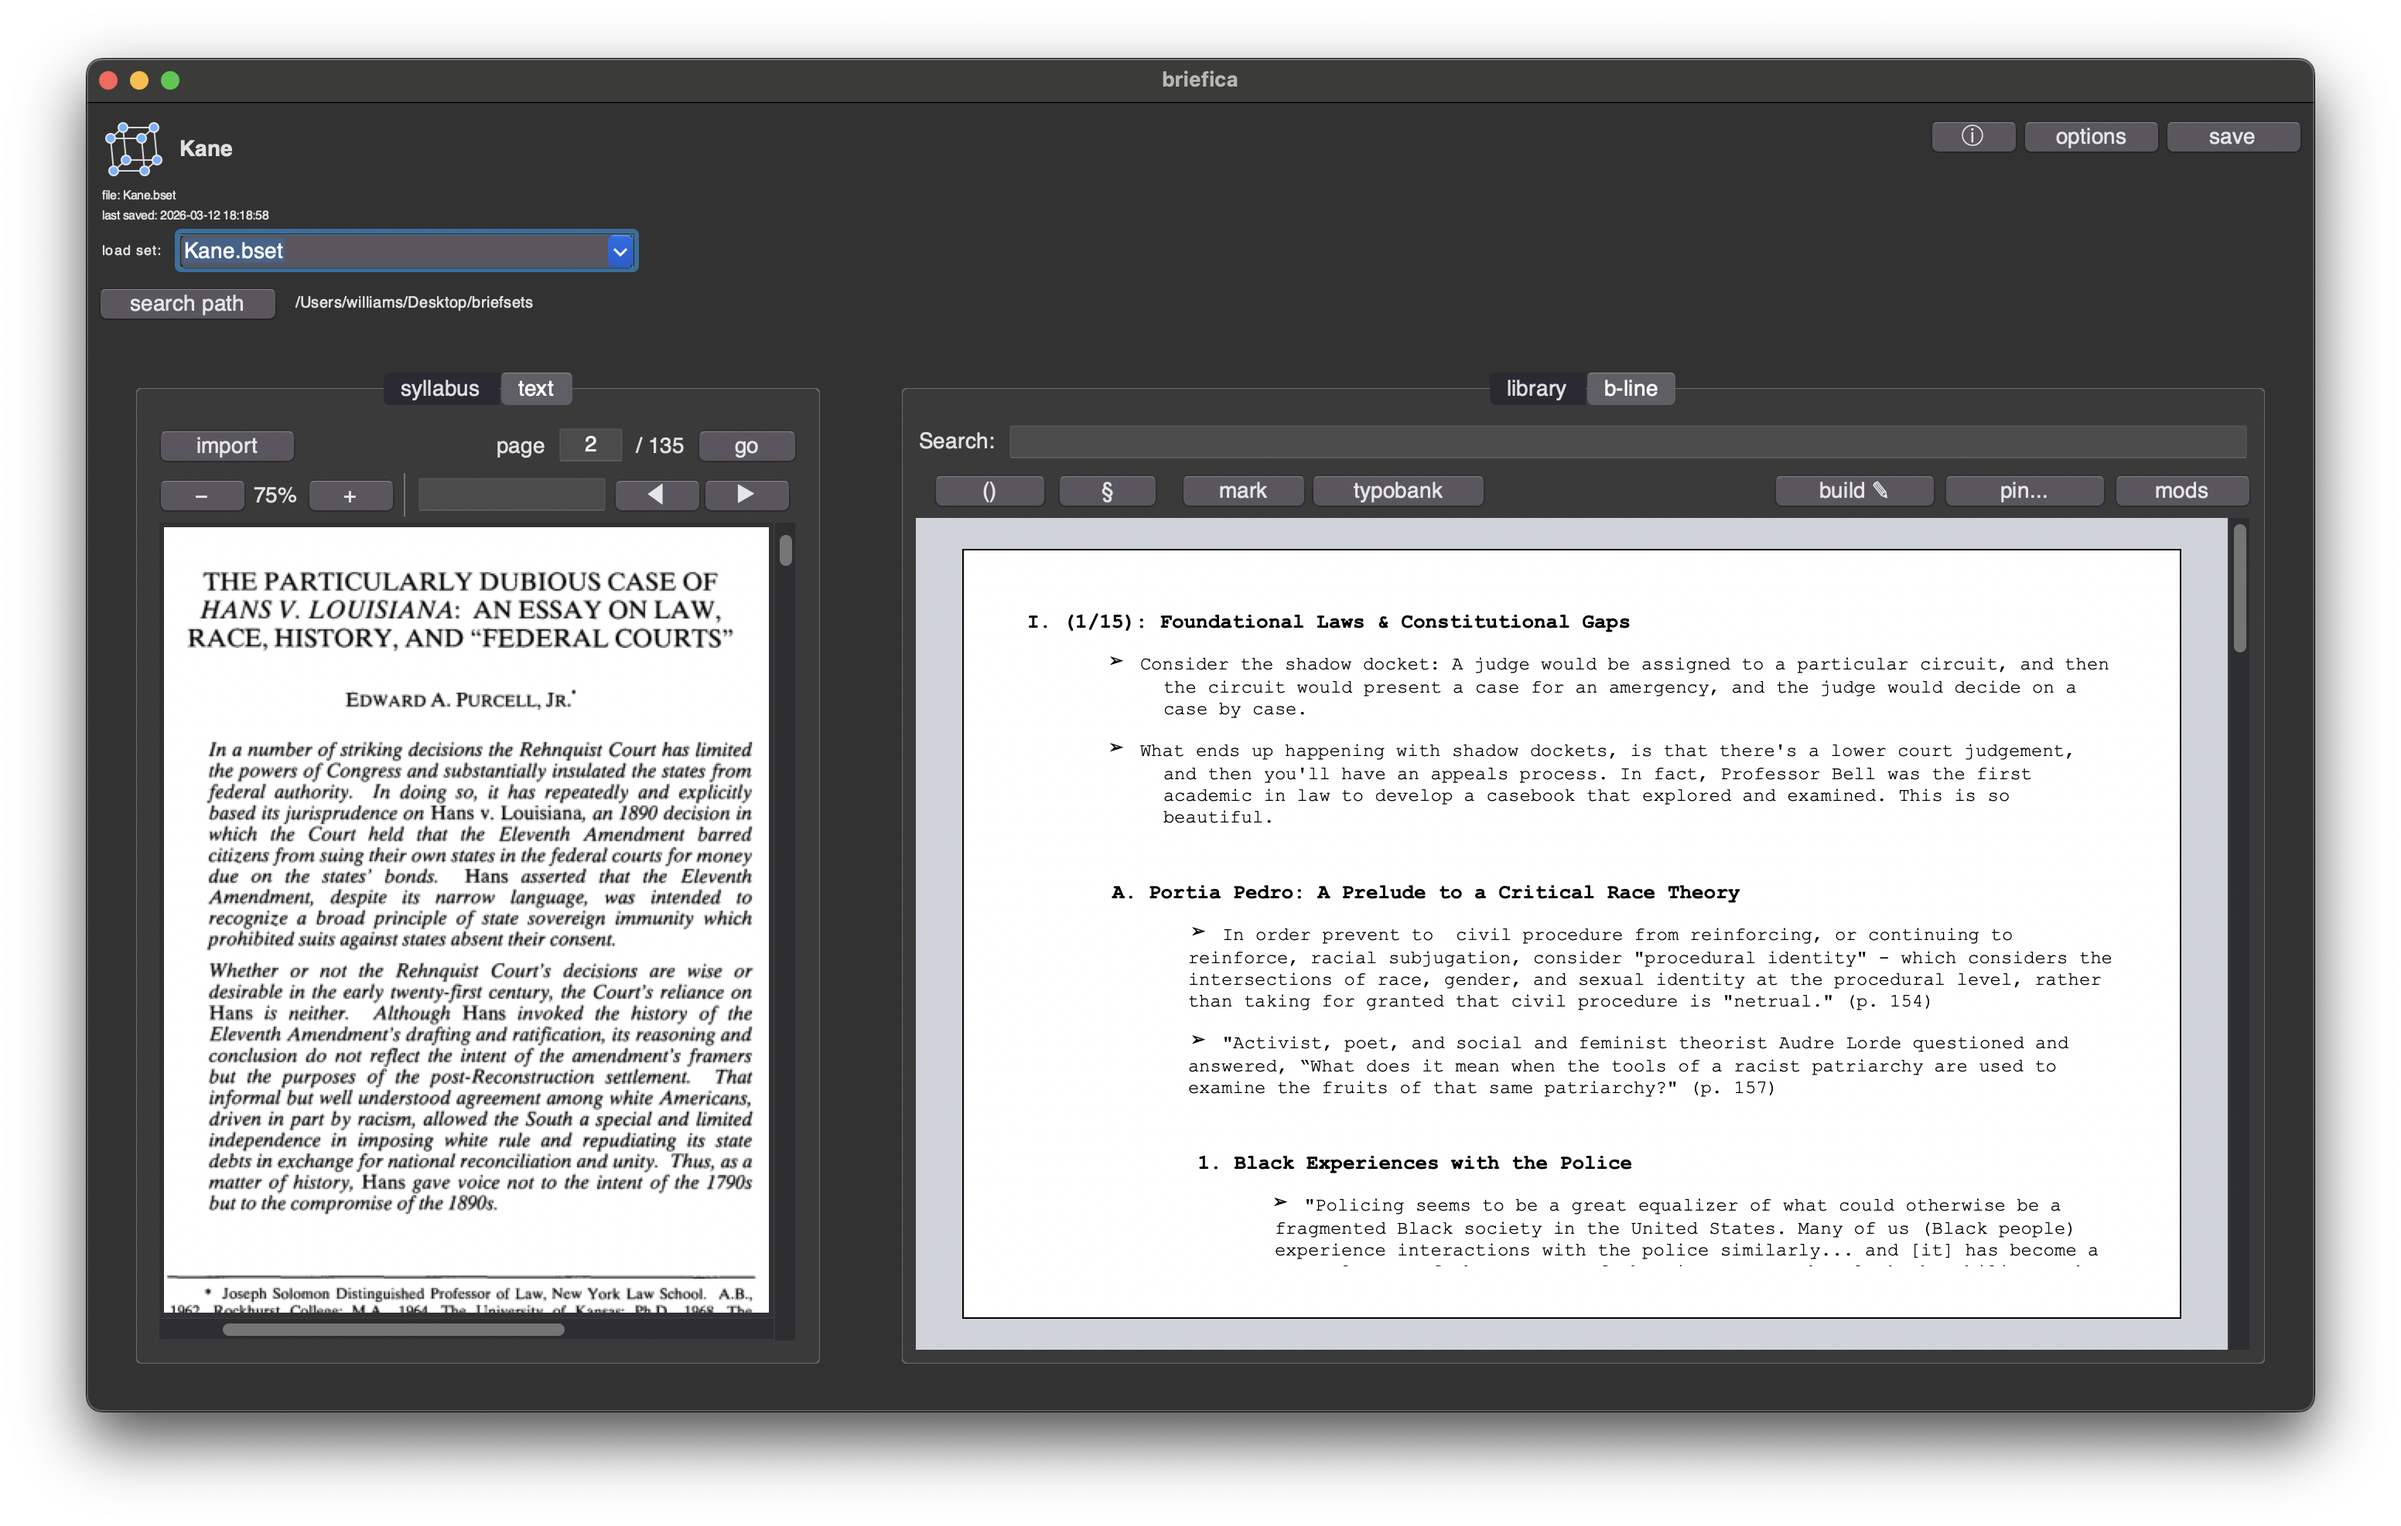
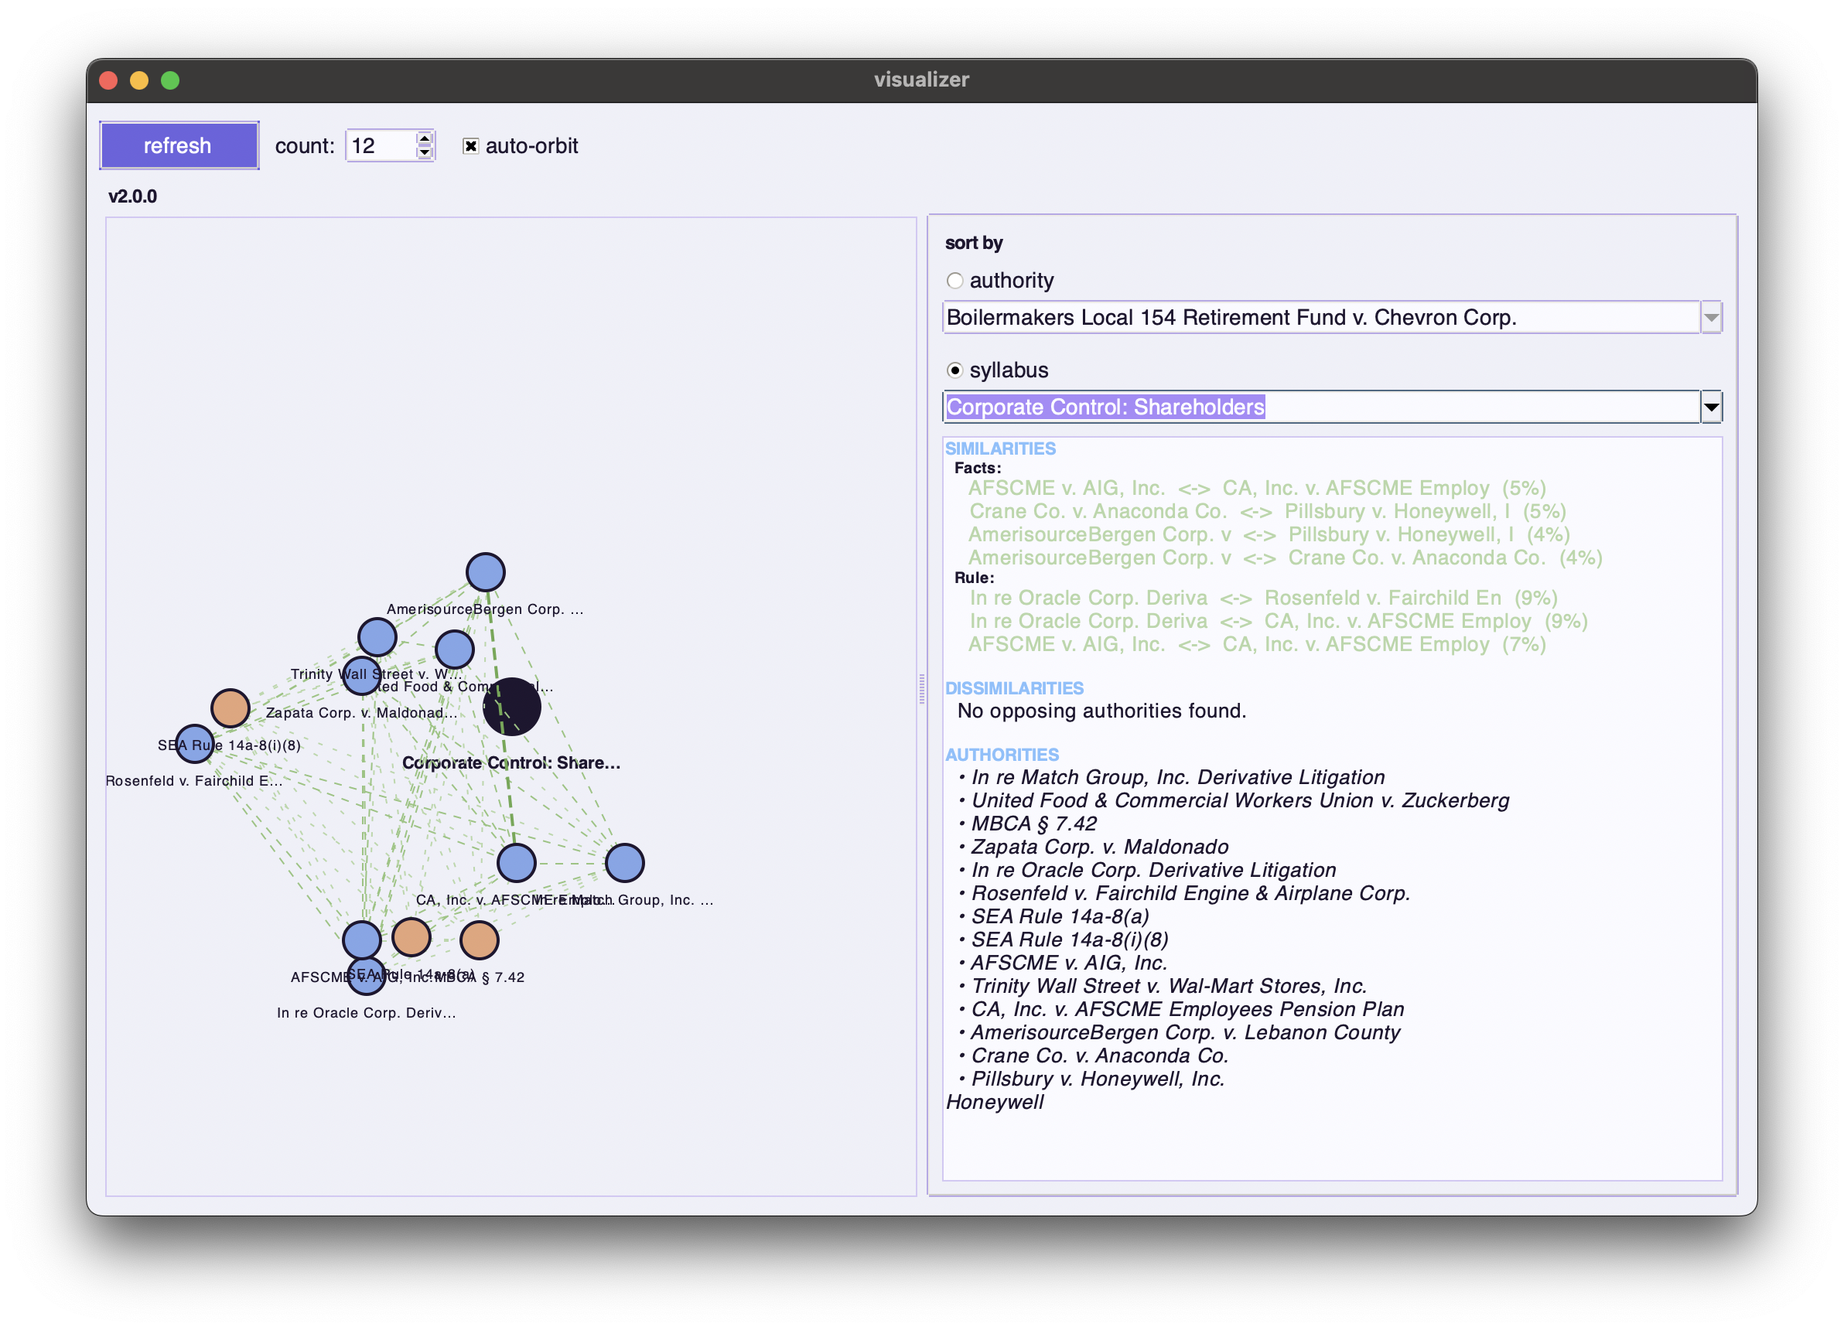
Redo b7 slideshow with current 9-image set

diff --git a/app/page.tsx b/app/page.tsx
@@ -29,7 +29,7 @@ export default function HomePage() {
   useEffect(() => {
     const shuffle = (arr: string[]) => [...arr].sort(() => Math.random() - 0.5);
     const all65 = [1,2,3,4,5,6].map(i => `/screencaps/b65/sc${i}.png`);
-    const all7 = [1,2,3,4,5,7,8,9,10,11].map(i => `/screencaps/b7/sc${i}.png`);
+    const all7 = [1,2,3,4,5,6,7,8,9].map(i => `/screencaps/b7/sc${i}.png`);
     setB65Imgs(shuffle(all65));
     setB7Imgs(shuffle(all7));
   }, []);
